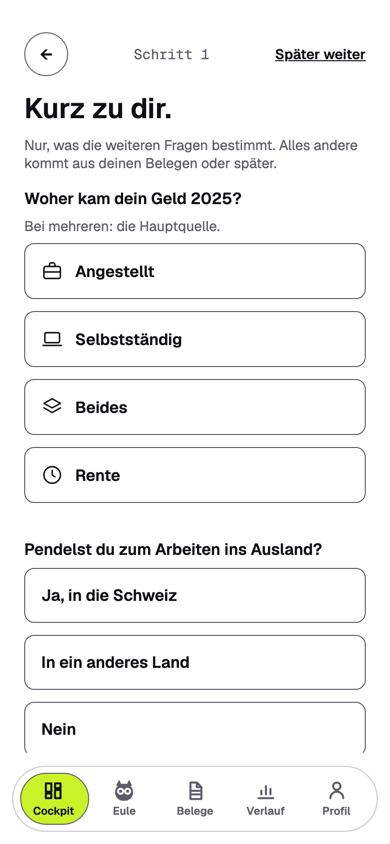
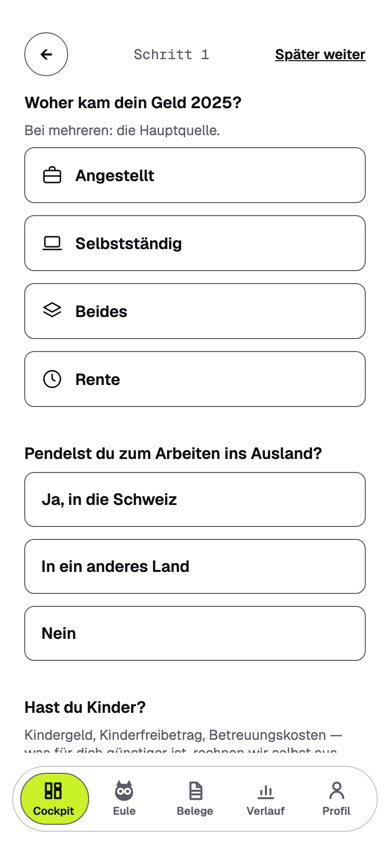
feat(ui): the first interview page starts with its question
The heading 'Kurz zu dir.' and the paragraph under it are gone from the page: the first question is the label. The name stays as a heading for assistive tech and as the step's name in the cockpit. README image retaken.

Changed region(s): [[0.0615, 0.0924, 0.9538, 0.8934], [0.9231, 0.1848, 0.9538, 0.6161], [0.9231, 0.8318, 0.9538, 0.8934]]

diff --git a/apps/mobile-web/src/screens/strom/StromPages.tsx b/apps/mobile-web/src/screens/strom/StromPages.tsx
@@ -37,6 +37,8 @@ const LATER_ALLOWED: ReadonlySet<EntryStepId> = new Set<EntryStepId>(LATER_ALLOW
 /** Amounts that rarely change and may be taken over from last year (#452 decision 8). */
 const PRIOR_YEAR_STEPS: ReadonlySet<EntryStepId> = new Set<EntryStepId>(['spenden-betrag', 'riester-betrag'])
 
+const VISUALLY_HIDDEN: TextStyle = { position: 'absolute', width: 1, height: 1, overflow: 'hidden', opacity: 0 }
+
 export function useKatalogCopy(): FieldCopy {
   const { t: tr } = useTranslation(APP_NS)
   return {
@@ -101,8 +103,6 @@ function withoutEmpty(draft: Answers): Answers {
 // Basis: only what branches — work, Switzerland, children, marital status (and the partner's work).
 
 export function BasisPage({ taxYear, stored, onSaved }: { readonly taxYear: number; readonly stored: Answers; readonly onSaved: (answers: Answers) => void }) {
-  const t = useTheme()
-  const styles = makeStyles(t)
   const { t: tr } = useTranslation(APP_NS)
   const [draft, setDraft] = useState<Answers>(stored)
   const [missing, setMissing] = useState<ReadonlySet<EntryStepId>>(new Set())
@@ -127,10 +127,10 @@ export function BasisPage({ taxYear, stored, onSaved }: { readonly taxYear: numb
 
   return (
     <View>
-      <Text style={styles.heading} accessibilityRole="header">
+      {/* The questions are the page: its name stays for assistive tech and the tab title, not on screen. */}
+      <Text style={VISUALLY_HIDDEN} accessibilityRole="header">
         {tr('strom.basis.titel')}
       </Text>
-      <Text style={styles.help}>{tr('strom.basis.hilfe')}</Text>
       <SaveNotice result={result} />
       <StromFields steps={steps} draft={draft} onChange={(id, value) => setDraft((d) => ({ ...d, [id]: value }))} copy={copy} idPrefix="interview" missing={missing} />
       <Button onPress={() => void next()} disabled={saving} testID="strom-weiter">
